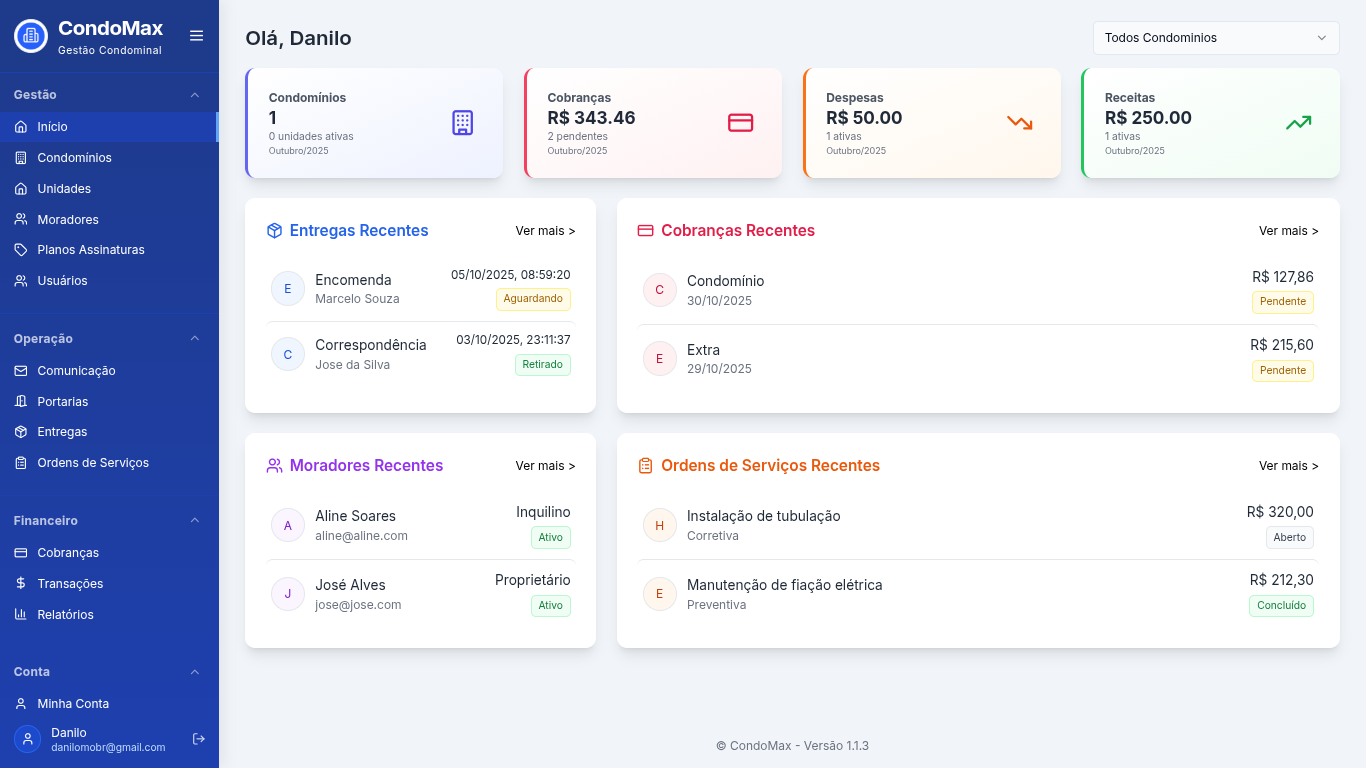
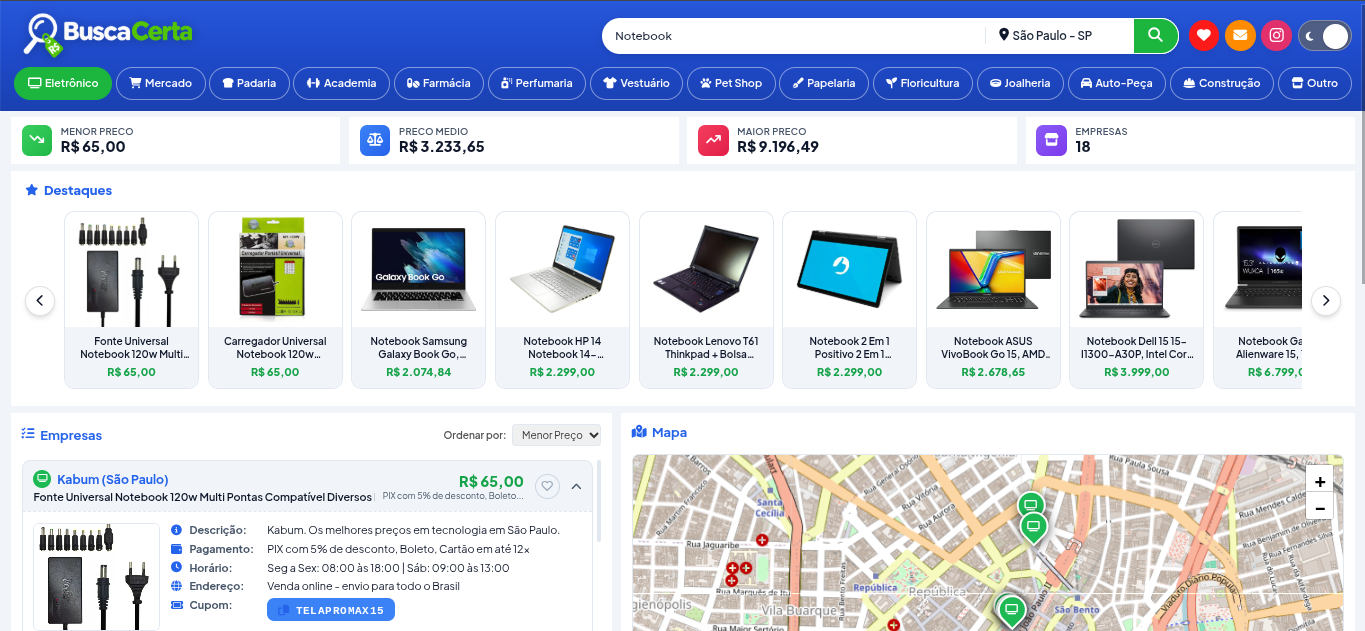
Update files

diff --git a/index.html b/index.html
@@ -1115,10 +1115,10 @@
                             <img class="img-fluid" src="portfolios/portfolio01.jpg" alt="">
                         </figure>
                         <div class="content text-left">
-                            <h3 class="sub-title"><a href="https://condomax.site" target="_blank">Condominium Management</a></h3>
-                            <div class="meta">React, TS, NextJS, Tailwind</div>
+                            <h3 class="sub-title"><a href="https://buscacerta.s.gy" target="_blank">Price Search</a></h3>
+                            <div class="meta">Python, FastAPI, CSS, JS, Vanilla</div>
                         </div><!--//content-->
-                        <a class="link-mask" href="https://condomax.site" target="_blank"></a>
+                        <a class="link-mask" href="https://buscacerta.s.gy" target="_blank"></a>
                     </div><!--//item-inner-->
                 </div><!--//item-->
                 <div class="item backend col-lg-3 col-6" style="position: absolute; left: 525px; top: 0px;">
